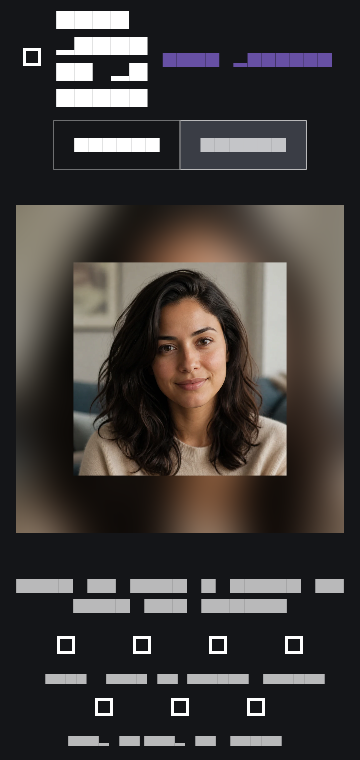
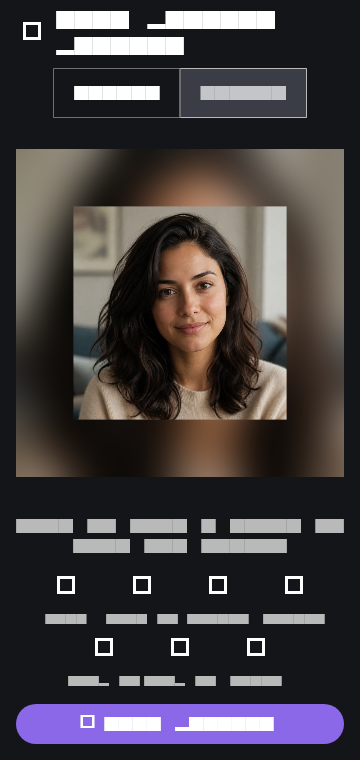
improve the image adjustment and save button

diff --git a/lib/features/settings/presentation/settings_page.dart b/lib/features/settings/presentation/settings_page.dart
@@ -1,3 +1,4 @@
+import 'dart:async';
 import 'dart:ui' as ui;
 
 import 'package:file_picker/file_picker.dart';
@@ -14,6 +15,7 @@ import 'package:trace/features/settings/presentation/profile_picture_editor.dart
 Future<ChatAttachment?> _pickProfilePicture() => pickChatAttachment(
   type: FileType.image,
   dialogTitle: 'Choose a profile picture',
+  preferLinuxChooser: true,
 );
 
 class SettingsPage extends StatelessWidget {
@@ -844,7 +846,7 @@ class _ProfileEditDialogState extends State<_ProfileEditDialog> {
           stored ??
           ProfileImageSource(bytes: await widget.client.downloadMedia(uri));
       if (mounted && !_pictureChanged) {
-        await _setSource(source, changed: false);
+        _setSource(source, changed: false);
       }
     } catch (_) {
       // A name change and choosing a replacement picture remain available.
@@ -880,36 +882,35 @@ class _ProfileEditDialogState extends State<_ProfileEditDialog> {
       return;
     }
     if (!mounted) return;
-    final transform = await showDialog<ProfileImageTransform>(
+    final result = await showDialog<ProfilePictureEditResult>(
       context: context,
       builder: (_) => ProfilePictureEditor(
         source: source,
         initialTransform: const ProfileImageTransform(),
       ),
     );
-    if (!mounted || transform == null) return;
-    await _setSource(
-      ProfileImageSource(bytes: source, transform: transform),
+    if (!mounted || result == null) return;
+    _setSource(
+      ProfileImageSource(bytes: source, transform: result.transform),
       changed: true,
     );
-    if (!mounted) return;
-    await _save();
+    await _save(preparedAvatar: result.avatarBytes);
   }
 
   Future<void> _editPicture() async {
     final source = _sourceBytes;
     if (source == null) return;
-    final transform = await showDialog<ProfileImageTransform>(
+    final result = await showDialog<ProfilePictureEditResult>(
       context: context,
       builder: (_) =>
           ProfilePictureEditor(source: source, initialTransform: _transform),
     );
-    if (!mounted || transform == null) return;
+    if (!mounted || result == null) return;
     setState(() {
-      _transform = transform;
+      _transform = result.transform;
       _pictureChanged = true;
     });
-    await _save();
+    await _save(preparedAvatar: result.avatarBytes);
   }
 
   void _removePicture() {
@@ -922,17 +923,18 @@ class _ProfileEditDialogState extends State<_ProfileEditDialog> {
     });
   }
 
-  Future<void> _save() async {
+  Future<void> _save({Uint8List? preparedAvatar}) async {
     setState(() => _saving = true);
     try {
       final source = _sourceBytes;
       final cropped = _pictureChanged && !_removeAvatar && source != null
-          ? _previewImage == null
-                ? await renderProfileImage(source, transform: _transform)
-                : await renderProfileImageFromDecoded(
-                    _previewImage!,
-                    transform: _transform,
-                  )
+          ? preparedAvatar ??
+                (_previewImage == null
+                    ? await renderProfileImage(source, transform: _transform)
+                    : await renderProfileImageFromDecoded(
+                        _previewImage!,
+                        transform: _transform,
+                      ))
           : null;
       if (!mounted) return;
       Navigator.pop(
@@ -1061,10 +1063,7 @@ class _ProfileEditDialogState extends State<_ProfileEditDialog> {
     );
   }
 
-  Future<void> _setSource(
-    ProfileImageSource source, {
-    required bool changed,
-  }) async {
+  void _setSource(ProfileImageSource source, {required bool changed}) {
     _clearDecodedImage();
     setState(() {
       _sourceBytes = source.bytes;
@@ -1073,7 +1072,7 @@ class _ProfileEditDialogState extends State<_ProfileEditDialog> {
       _removeAvatar = false;
       _error = null;
     });
-    await _decodePreview(source);
+    unawaited(_decodePreview(source));
   }
 
   void _clearDecodedImage() {

diff --git a/lib/features/settings/presentation/profile_picture_editor.dart b/lib/features/settings/presentation/profile_picture_editor.dart
@@ -5,6 +5,16 @@ import 'dart:ui' as ui;
 import 'package:flutter/material.dart';
 import 'package:trace/features/settings/application/profile_crop.dart';
 
+class ProfilePictureEditResult {
+  const ProfilePictureEditResult({
+    required this.transform,
+    required this.avatarBytes,
+  });
+
+  final ProfileImageTransform transform;
+  final Uint8List avatarBytes;
+}
+
 /// Full-size, direct-manipulation editor for the retained profile source.
 class ProfilePictureEditor extends StatefulWidget {
   const ProfilePictureEditor({
@@ -27,6 +37,7 @@ class _ProfilePictureEditorState extends State<ProfilePictureEditor> {
   late ProfileImageTransform _gestureStart;
   Offset _startFocalPoint = Offset.zero;
   bool _circlePreview = true;
+  bool _saving = false;
 
   @override
   void initState() {
@@ -80,6 +91,30 @@ class _ProfilePictureEditorState extends State<ProfilePictureEditor> {
 
   void _change(ProfileImageTransform Function(ProfileImageTransform) change) {
     setState(() => _transform = change(_transform));
+  }
+
+  Future<void> _savePicture() async {
+    final image = _image;
+    if (image == null || _saving) return;
+    setState(() {
+      _saving = true;
+      _error = null;
+    });
+    try {
+      final bytes = await renderProfileImageFromDecoded(
+        image,
+        transform: _transform,
+      );
+      if (!mounted) return;
+      Navigator.pop(
+        context,
+        ProfilePictureEditResult(transform: _transform, avatarBytes: bytes),
+      );
+    } catch (_) {
+      if (mounted) setState(() => _error = 'Could not save this picture.');
+    } finally {
+      if (mounted) setState(() => _saving = false);
+    }
   }
 
   @override
@@ -162,6 +197,8 @@ class _ProfilePictureEditorState extends State<ProfilePictureEditor> {
               style: TextStyle(color: Colors.white70),
             ),
           ),
+          if (_error != null && _image != null)
+            Text(_error!, style: const TextStyle(color: Color(0xFFFF9F9F))),
           Padding(
             padding: const EdgeInsets.symmetric(horizontal: 8),
             child: Wrap(
@@ -241,11 +278,9 @@ class _ProfilePictureEditorState extends State<ProfilePictureEditor> {
                   disabledBackgroundColor: Colors.white24,
                   disabledForegroundColor: Colors.white70,
                 ),
-                onPressed: _image == null
-                    ? null
-                    : () => Navigator.pop(context, _transform),
+                onPressed: _image == null || _saving ? null : _savePicture,
                 icon: const Icon(Icons.check),
-                label: const Text('Save picture'),
+                label: Text(_saving ? 'Saving picture…' : 'Save picture'),
               ),
             ),
           ),

diff --git a/test/features/settings/_capture_profile_editor_test.dart b/test/features/settings/_capture_profile_editor_test.dart
@@ -1,0 +1,50 @@
+import 'dart:io';
+import 'dart:ui' as ui;
+
+import 'package:flutter/material.dart';
+import 'package:flutter/rendering.dart';
+import 'package:flutter_test/flutter_test.dart';
+import 'package:trace/features/settings/application/profile_crop.dart';
+import 'package:trace/features/settings/presentation/profile_picture_editor.dart';
+
+void main() {
+  testWidgets('capture profile editor', (tester) async {
+    const mode = String.fromEnvironment(
+      'PROFILE_PREVIEW',
+      defaultValue: 'narrow',
+    );
+    await tester.binding.setSurfaceSize(
+      mode == 'wide' ? const Size(900, 700) : const Size(360, 760),
+    );
+    addTearDown(() => tester.binding.setSurfaceSize(null));
+    await tester.pumpWidget(
+      MaterialApp(
+        home: RepaintBoundary(
+          key: const Key('capture'),
+          child: ProfilePictureEditor(
+            source: File('assets/profiles/maya.webp').readAsBytesSync(),
+            initialTransform: const ProfileImageTransform(scale: .65),
+          ),
+        ),
+      ),
+    );
+    await tester.runAsync(
+      () => Future<void>.delayed(const Duration(milliseconds: 100)),
+    );
+    await tester.pumpAndSettle();
+    if (mode == 'square') {
+      await tester.tap(find.byKey(const Key('profile-preview-square')));
+      await tester.pump();
+    }
+    final boundary = tester.renderObject<RenderRepaintBoundary>(
+      find.byKey(const Key('capture')),
+    );
+    final image = await boundary.toImage();
+    final data = await image.toByteData(format: ui.ImageByteFormat.png);
+    File('docs/product/profile-picture-editor-$mode.png').writeAsBytesSync(
+      data!.buffer.asUint8List(),
+    );
+    image.dispose();
+    await tester.pumpWidget(const SizedBox());
+  });
+}

diff --git a/lib/features/chat/application/attachment_picker.dart b/lib/features/chat/application/attachment_picker.dart
@@ -12,7 +12,16 @@ import 'package:trace/features/chat/application/attachment_picker_fallback_stub.
 Future<ChatAttachment?> pickChatAttachment({
   FileType type = FileType.any,
   String dialogTitle = 'Add an attachment',
+  bool preferLinuxChooser = false,
 }) async {
+  if (preferLinuxChooser) {
+    try {
+      final fallback = await pickChatAttachmentFallback(dialogTitle: dialogTitle);
+      if (fallback.available) return fallback.file;
+    } catch (_) {
+      // Try the platform chooser if Zenity cannot start in this environment.
+    }
+  }
   try {
     final file = await FilePicker.pickFile(
       type: type,

diff --git a/docs/product/SETTINGS_APPEARANCE.md b/docs/product/SETTINGS_APPEARANCE.md
@@ -18,8 +18,10 @@ dialog, while the display name waits for a deliberate tap. The picture editor
 supports drag, pinch zoom, pinch rotation, quarter-turn rotation, flips, and
 reset. Circle and Square switch between the avatar crop and the full uploaded
 image. Zooming out fills exposed edges with a blurred copy of the source.
-The editor preview and Matrix upload use the same painter; the uploaded PNG is
-encoded when Save picture is pressed, which commits the profile edit directly.
+The editor preview and Matrix upload use the same painter. A prominent Save
+picture button renders the uploaded PNG before closing the editor, then commits
+the profile edit directly. On Linux, Replace picture opens the Zenity chooser
+first when available and falls back to the platform picker.
 Older locally stored framing values are converted
 when their source image is opened.
 
